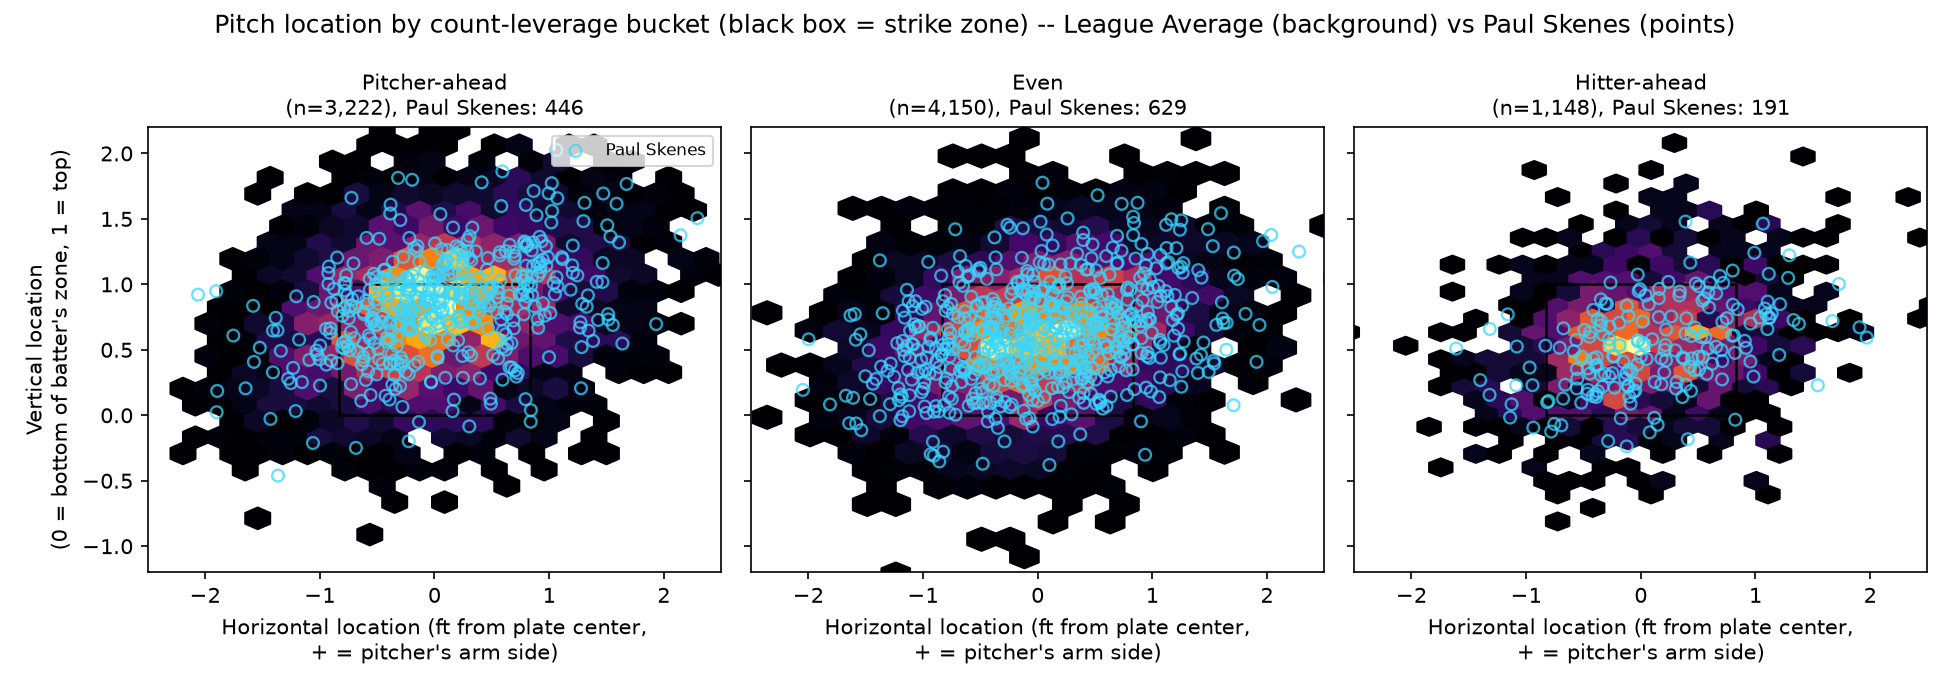
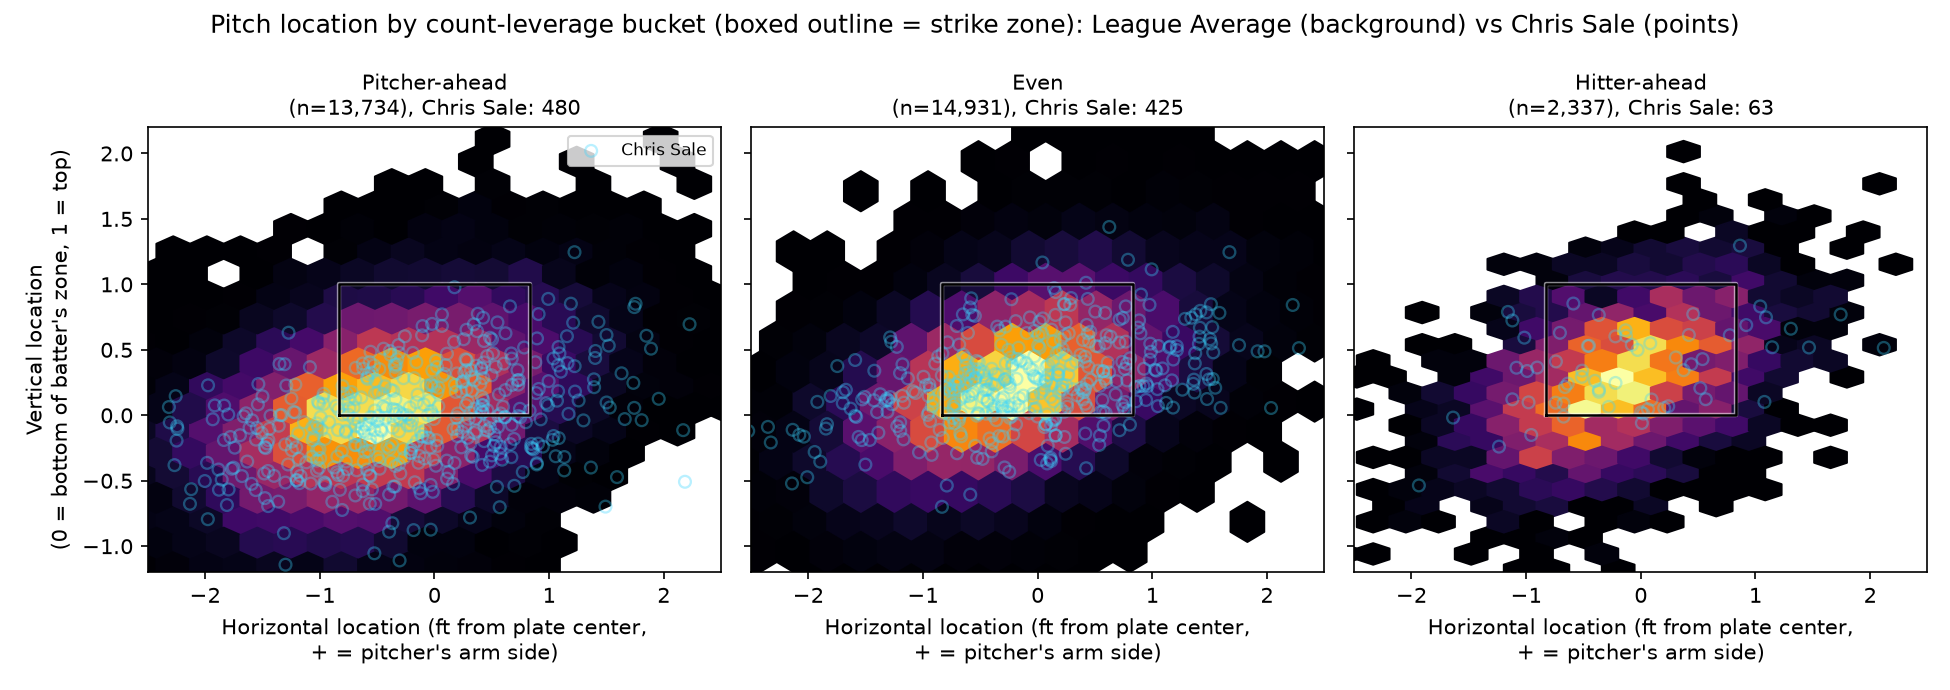
9/30: README screenshots switched to Chris Sale and regenerated; avoid-ai-writing pass over docs and comments
Screenshots regenerated from the current code with the new titles. Dev log covers the 9/24 work and today's text cleanup.

diff --git a/slippery_slope/docs/dev_log.md b/slippery_slope/docs/dev_log.md
@@ -498,3 +498,128 @@ User asked for the gridlines off. `showgrid=False` on both axes in `zone_share_f
 layout (folded `xaxis_title`/`yaxis_title`/`yaxis_tickformat` into explicit `xaxis=dict(...)`/
 `yaxis=dict(...)` blocks to add it cleanly rather than mixing shorthand and dict forms). 1
 new test; 36 total, all passing.
+
+# 9/24/2026: lighter overlay default, README screenshots switched to Chris Sale (breakers)
+
+User feedback: the pitcher overlay was still hard to read over the hexbin's bright core, and
+the README front page should show Chris Sale on the ~100K-pitch sample with breaking balls
+only.
+- `DEFAULT_OVERLAY_ALPHA` in app.py: 0.6 -> 0.35 (also the slider's default; the slider
+  itself still runs 0.1-1.0). Rendered 0.6 / 0.35 / 0.2 side by side before choosing: 0.35
+  lets the density show through, while 0.2 washes the cyan rings out entirely over the
+  yellow core. No change to `location_figure`'s own `overlay_alpha` default (1.0), since
+  that is the function's contract for any non-app caller.
+- Both README app screenshots (`assets/slippery_slope/app_location_by_count.png`,
+  `app_zone_share.png`) regenerated with the app's real pipeline (`load_sample` over the
+  "~100K pitches (26 days)" preset ending 2025-06-08 (101,217 pitches loaded, 100,434 in
+  scope), plus `load_pitcher_season` for Sale's 2025 season, breaking types CU/KC/SL/ST/SV,
+  league-average background). Sale threw 968 breaking pitches in the season, all sliders. README
+  alt text and captions rewritten to match; the two images use identical parameters on purpose
+  so the pair reads as one example rather than two different ones.
+- Caveat noted in the README caption: Sale's zone-share lines at 2-0, 3-1 and 3-0 rest on
+  16, 8 and 1 pitches (hence the 100% Corner spike at 3-0), so the right edge of that chart is
+  noise. Left as the app would draw it rather than trimmed, so the screenshot stays a
+  faithful copy of the app's output.
+
+# 9/24/2026 (cont'd): strike zone drawn above everything
+
+User asked for the strike-zone outline to be plotted above everything. In `location_figure`
+the zone was a plain `ax.plot` (matplotlib's default line zorder of 2), which sits above the
+hexbin (1) but *below* the overlay scatter's `zorder=5`, so the pitcher's points were drawn
+over the box.
+- New `ZONE_ZORDER = 10` in location_view.py, applied to the zone outline.
+- `fastball_location.ipynb`'s Stage A cell got the same `zorder=10` (a one-line source
+  change; saved outputs untouched). There the zone was already above the hexbin since that
+  chart has no overlay, so nothing visibly changes. The edit just makes the intent explicit and
+  keeps it from silently regressing if an overlay is ever added there.
+- 1 new test (zone line's zorder is `ZONE_ZORDER` and above every collection on the axes); 37
+  total, all passing.
+- Follow-up in the same session: with the zone on top, its black outline was still hard to
+  see where the hexbin is near-black (e.g. the top edge in the Pitcher-ahead panel). Added a
+  thin translucent white halo (`pe.withStroke`, `ZONE_HALO_WIDTH = 2.1`, `ZONE_HALO_ALPHA =
+  0.55`) around it in `location_figure`. Rendered a heavier 2.8pt/85% version first; it read as
+  a double outline at README size, so the lighter one won. Figure title changed from "black
+  box = strike zone" to "boxed outline = strike zone", and the app's "What am I looking at?"
+  text now mentions the halo. The notebook's white zone line got no halo, since it's already
+  white. 1 new test (zone line carries a white path effect at `ZONE_HALO_ALPHA`); 38 total, all
+  passing.
+- README's first screenshot re-rendered from the real code path after both changes, so it
+  shows exactly what the app draws.
+
+# 9/24/2026 (cont'd): different pitch types per side, and graceful empty/failed states
+
+User asked for (3a) a comparison of one side's pitch type(s) against the other's (e.g. all
+league-average fastball locations against Paul Skenes' splitter) and (3b) for the app to stop
+breaking when they clicked around during pitcher-vs-pitcher loads, with blank fields handled
+("Pick at least one pitch for each pitcher").
+
+**3a: separate pitch-type lists per side.**
+- With a pitcher selected there's now a "Use different pitch types for <comparison side>"
+  checkbox. Off (the default) is the old behavior, one shared list. On, the comparison side --
+  league average or the comparison pitcher, gets its own multiselect plus its own bulk-by-
+  category picker, seeded from the pitcher's current selection so it never opens empty.
+  Works against both league average and another pitcher, not only league.
+- `build_comparison_rows` takes a new `overlay_types` argument (the background keeps
+  `selected_types`); it raises if combined with `compare_types`, because per-type rows need both
+  sides on the same types. The app hides "Compare pitch types side by side" while different
+  types are on for the same reason.
+- When the sides differ, each is labeled with its types (`League Average [FC/FF/SI]`, `Paul
+  Skenes [FS]`) in the figure title, overlay legend, per-panel counts, and the zone-share
+  chart's solid/dashed key. When they don't, labels are unchanged.
+- Checked with the exact example from the request over the ~100K-pitch window: 55,683
+  league FC/FF/SI pitches (background) vs. Skenes' 455 splitters (points).
+
+**3b: what was actually breaking.** Couldn't reproduce a crash through ordinary clicking (AppTest
+walkthroughs of pitcher-vs-pitcher, same-pitcher-in-both-slots, side-by-side mode, clearing the
+pitch-type list, etc. all ran clean), so a randomized stress test was written: batched widget
+changes applied to a single rerun (how Streamlit sees clicks queued during a load), plus injected
+fetch failures (ConnectionError, KeyError, empty frame, frame missing columns, a 2-row frame).
+Against the pre-change app, 160 steps produced exactly one class of crash: any failed season
+pull other than an empty result (`ValueError`) propagated as a raw traceback. Pitcher-vs-pitcher
+makes two such pulls per run, and a page that's mid-load when someone clicks something else is
+the likeliest time for one to fail, which is consistent with what was reported (the exact
+failure the user saw wasn't captured, so this is the best-supported cause, not a confirmed one).
+- `_load_pitcher_engineered` now falls back to the pitcher's rows from the loaded window on
+  *any* exception (previously only `ValueError`), with the warning naming the error type.
+- The initial league-sample load got the same treatment: any non-`ValueError` failure is now a
+  plain `st.error` naming the date range, instead of a traceback. (The stress test's injected
+  failures only wrapped the per-pitcher pull, so this one was checked separately: a simulated
+  ConnectionError on an uncached date range now shows the error message, no traceback.)
+- Blank states now each say what's wrong: `missing_selection_message` ("Pick at least one pitch
+  type for League Average." / "...for each side of the comparison (Paul Skenes and Mick Abel).")
+  and `empty_side_notes` ("Mick Abel has no KC pitches in this sample.") replace the old one
+  message that only fired when *both* sides were empty, which left a lone empty side as a
+  silently blank panel. The page still stops only when every side is empty.
+- The old zone-share "no pitches" info line was dropped; the per-side note above it says the
+  same thing with the pitcher's name and types.
+- 8 new tests in test_location_view.py (overlay_types filtering/default/guard, both message
+  helpers, empty-side notes); 46 total, all passing. app.py itself has no automated tests (same
+  as before); it was exercised through the AppTest walkthroughs and the stress test above.
+  Re-running the stress test against the finished app (3 seeds x 100 steps, same injected
+  failures plus the new different-types widgets in the random action pool): 0 failures.
+
+# 9/30/2026: avoid-ai-writing pass over the uncommitted changes
+
+Ran the avoid-ai-writing skill over the pending diff: README captions and alt text, the 9/24 dev
+log entries, comments and docstrings in app.py, location_view.py and test_location_view.py, the
+notebook's one changed line, UI strings, and the figure titles. Text was already mostly plain;
+the main finding was dash splices (` -- ` and an em dash) in prose.
+- Replaced those with colons, commas, parentheses or a sentence break in the README captions, the
+  9/24 dev log entries, the two `app.py` docstrings, the "What am I looking at?" text, and the
+  location figure's suptitle, which now reads "(boxed outline = strike zone): <title suffix>".
+- Dropped "still" from the `DEFAULT_OVERLAY_ALPHA` comment, which narrated the change from 0.6
+  rather than describing the value.
+- Left alone on purpose: the ` -- ` after `# noqa: BLE001` (two lines in `app.py`, kept so the
+  linter directive stays untouched); "actually" in "what was actually breaking", which marks a
+  real contrast with the reported symptom.
+- Zone-share chart retitled at the user's request: "Where in the zone pitches go, by count -- X"
+  was hard to read as a title, so it is now "Pitch Locations by Count: X" (or "X vs Y" when the
+  comparison lines are drawn; an empty comparison draws nothing, so the title doesn't claim one).
+  With no pitcher selected, X is "All Pitchers" (was the lowercase "all pitchers"). The x-axis
+  label lost its ` -- not alphabetical` tail and now reads "Count (balls-strikes), ordered
+  pitcher-ahead to hitter-ahead". 1 new test; 47 total, all passing.
+- Regenerated both README screenshots from the current code, using the same parameters as the
+  9/24 render (26-day window ending 2025-06-08, Sale's 2025 season, breaking types, league-average
+  background, overlay opacity 0.35; 101,217 pitches loaded, 100,434 in scope, 968 Sale sliders).
+  Both now show the new titles; the data in them is unchanged.
+- Nothing flagged in `infield_arm/` (empty scaffolding, only `__init__.py` files).

diff --git a/README.md b/README.md
@@ -45,14 +45,14 @@ streamlit run slippery_slope/scripts/app.py
 ```
 
 <p align="center">
-  <img src="assets/slippery_slope/app_location_by_count.png" width="95%" alt="App screenshot: Paul Skenes fastball locations vs league average, by count-leverage bucket">
+  <img src="assets/slippery_slope/app_location_by_count.png" width="95%" alt="App screenshot: Chris Sale breaking-ball locations vs league average, by count-leverage bucket">
 </p>
-<p align="center"><sub>Live app output — Paul Skenes' 2025 fastballs (cyan points) overlaid on the league-average background, split by count leverage. Skenes climbs the zone as the count tilts in his favor and works the arm-side edge once he's fallen behind.</sub></p>
+<p align="center"><sub>Live app output: Chris Sale's 2025 breaking balls (all sliders; cyan points) overlaid on the league-average breaking-ball background (a ~100K-pitch window), split by count leverage. Sale works the bottom of the zone and below it, with a second cluster of chases off the arm-side edge.</sub></p>
 
 <p align="center">
-  <img src="assets/slippery_slope/app_zone_share.png" width="80%" alt="App screenshot: zone-share by count, Paul Skenes vs league average">
+  <img src="assets/slippery_slope/app_zone_share.png" width="80%" alt="App screenshot: zone-share by count, Chris Sale breaking balls vs league average">
 </p>
-<p align="center"><sub>The app's companion chart: share of pitches landing in each zone group (Heart/Edge/Corner/Chase) by count. Solid lines are the selected pitcher, dashed lines are the comparison group — here, Skenes leans on the edge of the zone far more than league average once ahead in the count.</sub></p>
+<p align="center"><sub>The app's companion chart: share of pitches landing in each zone group (Heart/Edge/Corner/Chase) by count. Solid lines are the selected pitcher, dashed lines are the comparison group. Here, Sale buries his slider out of the zone even more than league average when ahead (81% Chase/Ball at 0-2 vs. ~74%), then stays in the zone more than league average once the count evens up (34% Chase/Ball vs. ~46% at 3-2). The far-right counts (2-0, 3-1, 3-0) rest on 16, 8 and 1 pitches respectively, so read them as noise.</sub></p>
 
 ### Setup
 
